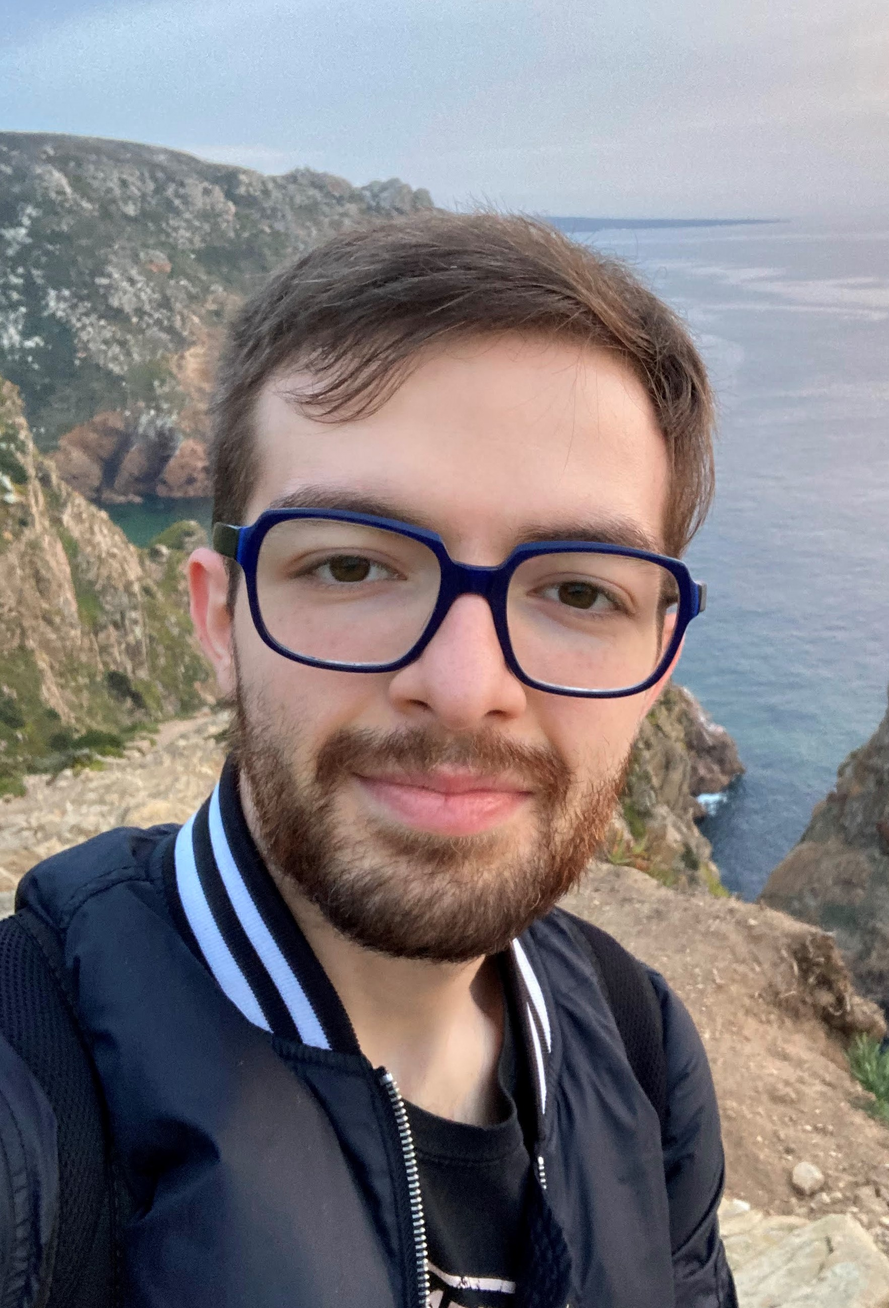
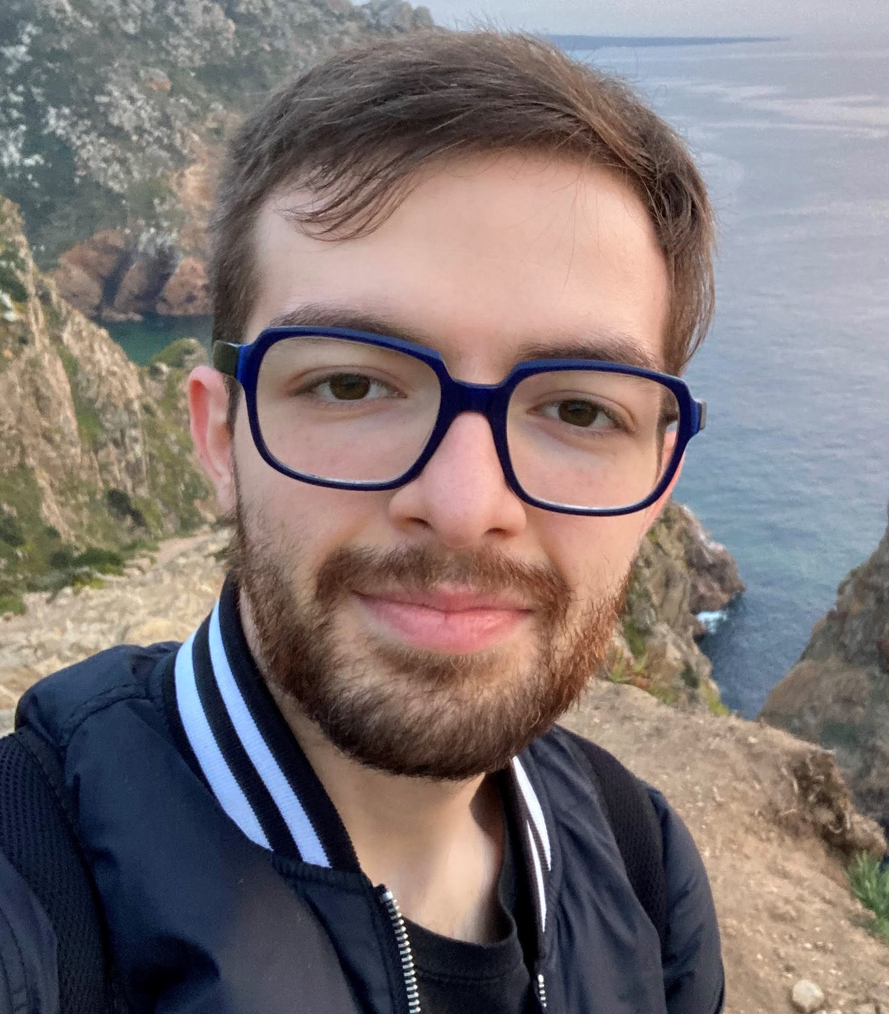
Deploy v4

diff --git a/src/components/Team/Team.jsx b/src/components/Team/Team.jsx
@@ -1,6 +1,6 @@
 import style from "../../css/info.module.css";
 import lechuga from "../../assets/team/lechuga.jpg";
-import placeholder2 from "../../assets/team/placeholder2.jpg";
+import alejandro from "../../assets/team/alejandro.jpeg";
 import fernandez from "../../assets/team/fernandez.jpg"; 
 import alban from "../../assets/team/alban.jpg";
 import placeholder1 from "../../assets/team/placeholder1.png";
@@ -164,7 +164,7 @@ export default function Team() {
                             <button type="button" className="btn btn-primary" data-toggle="modal" data-target="#JulianModal" data-backdrop="false"> Julian Lechuga </button>
                     </div>
                     <div className={style.creador}>
-                        <img src={placeholder2} alt="Alejandro Briceño" />
+                        <img src={alejandro} alt="Alejandro Briceño" />
                         <button type="button" className="btn btn-primary" data-toggle="modal" data-target="#AleModal"> Alejandro Briceño </button>
                     </div>
                     <div className={style.creador}>

diff --git a/src/components/AdminPanel/AdminPanel.jsx b/src/components/AdminPanel/AdminPanel.jsx
@@ -66,7 +66,7 @@ export default function AdminPanel (){
                     <Col sm={3}  className={style.panelAdmin_left}>
                     <Nav variant="pills" className="flex-column">
                         <Nav.Item>
-                            <Nav.Link eventKey="first" className={style.panelAdmin_first}>Listar Usuarios</Nav.Link>
+                            <Nav.Link eventKey="first" className={style.panelAdmin_first}>Lista de Usuarios</Nav.Link>
                         </Nav.Item>
                         <Nav.Item>
                             <Nav.Link eventKey="second">Cantidad Usuarios</Nav.Link>
@@ -75,7 +75,7 @@ export default function AdminPanel (){
                             <Nav.Link eventKey="third">Usuarios Registrados</Nav.Link>
                         </Nav.Item>
                         <Nav.Item>
-                            <Nav.Link eventKey="fourth">Dinero Ganado</Nav.Link>
+                            <Nav.Link eventKey="fourth">Ingresos</Nav.Link>
                         </Nav.Item>
                     </Nav>
                     </Col>

diff --git a/src/components/AdminGrafico/GraficoLineal.jsx b/src/components/AdminGrafico/GraficoLineal.jsx
@@ -13,6 +13,8 @@ ChartJS.register(
 )
 
 const LineChart = () => {
+  let [refresh, setRefresh] = useState(false)
+
     const [ users , setUsers ] = useState([]);
     useEffect(() => {
         const allUsers = async () => {
@@ -24,7 +26,7 @@ const LineChart = () => {
             }
         }
         allUsers();
- },[]);
+ },[refresh]);
 
 const mesesGrafico = users?.map(user => new Date(user.createdDate).toLocaleString("es-ES", {month: "long"})).reverse()
 
@@ -106,6 +108,7 @@ const prueba2 = usuariosPremium.reduce((contador, mes) => {
 
   return (
         <div style={{width:650, textAlign:'center',margin:'auto'}}>
+          <button onClick={() => {setRefresh(!refresh)}}> Recargar</button>
           <h1 style={{ fontSize: '35px',color: '#885197', marginBottom: '20px' }}>Ingresos</h1>
           <Line data={data} options={options}/>
         </div>

diff --git a/src/components/UserProfile/MyReview.jsx b/src/components/UserProfile/MyReview.jsx
@@ -43,7 +43,7 @@ export default function ReviewCard() {
   console.log(rev);
   return (
     <div className="reCart">
-        <h1 style={{fontStyle: "italic",color:"#fa42cc", textShadow: "0 0 5px #9027f1, 0 0 15px #9027f1, 0 0 20px, 0 0 40px #9027f1, 0 0 60px #0066ff, 0 0 10px, 0 0 98px #8cf5ff75"}}>Tus Reseñas</h1>
+        <h1 style={{fontStyle: "italic",color:"#fa42cc", textShadow: "0 0 3px #9027f1, 0 0 7px #9027f1, 0 0 12px, 0 0 18px #0066ff, 0 0 10px, 0 0 48px #8cf5ff75"}}>Tus Reseñas</h1>
       {rev? (
         rev.map((r) => {
           return (

diff --git a/src/components/AdminGrafico/GraficoBarras.jsx b/src/components/AdminGrafico/GraficoBarras.jsx
@@ -70,7 +70,7 @@ const prueba2 = usuariosPremium.reduce((contador, mes) => {
 
   return (
         <div style={{width:650, textAlign:'center',margin:'auto'}}>
-          <button onClick={() => {setRefresh(true)}}> Recargar</button>
+          <button onClick={() => {setRefresh(!refresh)}}> Recargar</button>
           <h1 style={{ fontSize: '35px',color: '#885197', marginBottom: '20px' }}>Usuarios Registrados</h1>
           <Bar data={data}/>
         </div>

diff --git a/src/components/Chat/Chat.jsx b/src/components/Chat/Chat.jsx
@@ -104,7 +104,6 @@ const Chat = () => {
       try {
         const { data } = await axios(`/api/back-end/user`);
         setUsers(data);
-
       } catch (error) {
         console.log(error);
       }
@@ -125,7 +124,7 @@ const Chat = () => {
         reciverId: info.id,
       });
       setChats(data);
-      // setCurrentChat(data)
+      // setCurrentChat(data);
       setProbando(!probando);
     } catch (error) {
       console.log(error);

diff --git a/src/components/Modal/Modal.jsx b/src/components/Modal/Modal.jsx
@@ -6,6 +6,7 @@ const Modal = ({ children, isOpen, onClose }) => {
         <div className={`modal ${isOpen && "is-open"}`} onClick={onClose} >
             <div className="modal-container" onClick={handlerStopPropagation}>
                 <button className="modal-close" onClick={onClose}>X</button>
+                <br />
                 {children} 
             </div>
         </div>

diff --git a/src/components/AdminPanel/AdminUsers.jsx b/src/components/AdminPanel/AdminUsers.jsx
@@ -227,6 +227,8 @@ export default function AdminUsers() {
                   <div>
                     {u?.name}
                     <br />
+                    {u.email}
+                    <br />
                     Creado: {u.createdDate}
                     <div>
                       <button

diff --git a/src/index.css b/src/index.css
@@ -39,7 +39,7 @@ Nav{
   min-height: 0%;
   max-width: 100%;
   display: flex;
-  justify-content: space-around;
+  justify-content: space-evenly;
   align-items: center;
   background-color:rgb(255, 255, 255);
   box-shadow: 0 5px 10px 	#032c61
